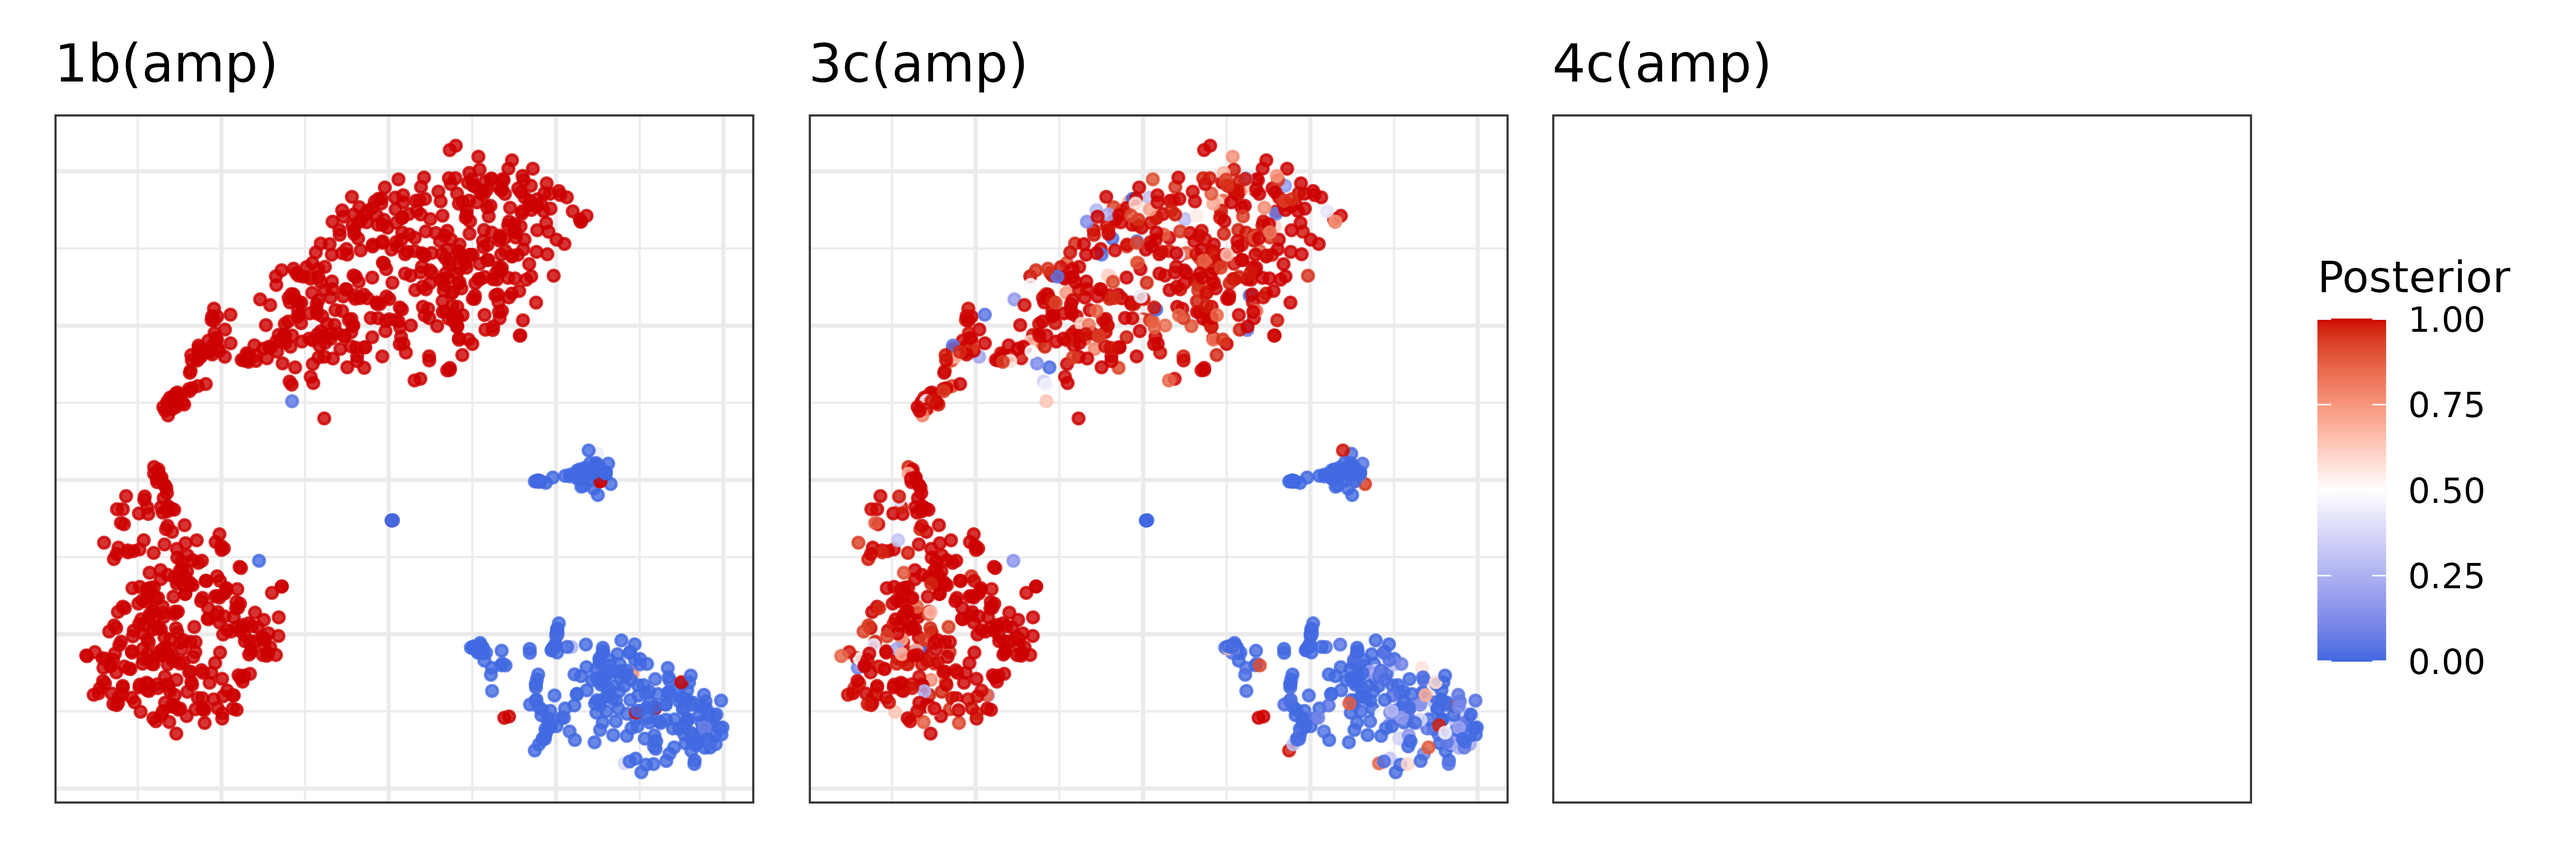
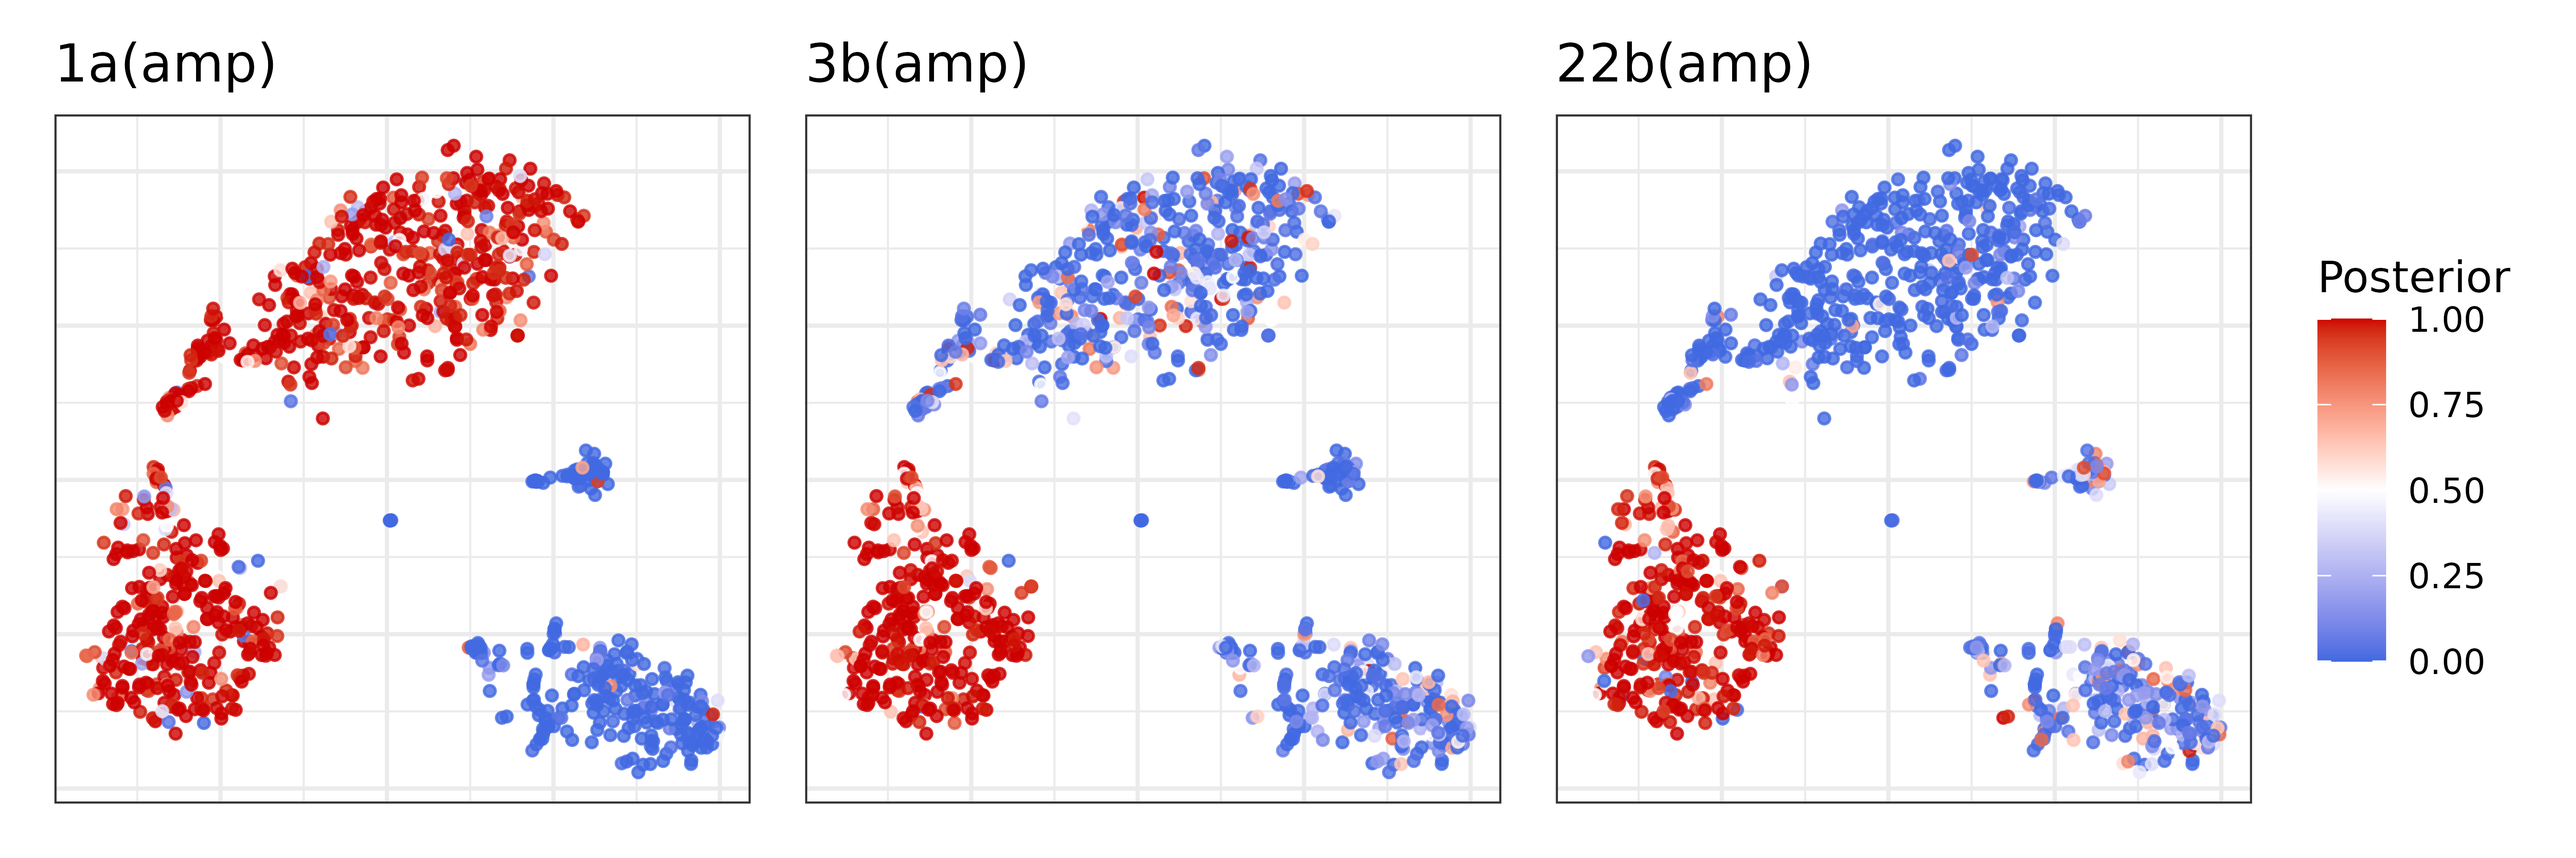
updating articles

diff --git a/docs/articles/results.html b/docs/articles/results.html
@@ -161,7 +161,7 @@
 <p>which contains cell-level information on specific CNV segments (<code>seg</code>), their alteration type (<code>cnv_state</code>), the joint posterior probability of the CNV (<code>p_cnv</code>), the expression-based posterior (<code>p_cnv_x</code>), and the allele-based posterior (<code>p_cnv_y</code>). We can visualize the event-specific posteriors in a expression-based tSNE embedding:</p>
 <div class="sourceCode"><pre class="downlit sourceCode r">
 <code class="sourceCode R"><span class="va">plist</span> <span class="op">=</span> <span class="fu"><a href="https://rdrr.io/r/base/list.html" class="external-link">list</a></span><span class="op">(</span><span class="op">)</span>
-<span class="va">muts</span> <span class="op">=</span> <span class="fu"><a href="https://rdrr.io/r/base/c.html" class="external-link">c</a></span><span class="op">(</span><span class="st">'1b'</span>, <span class="st">'3c'</span>, <span class="st">'4c'</span><span class="op">)</span>
+<span class="va">muts</span> <span class="op">=</span> <span class="fu"><a href="https://rdrr.io/r/base/c.html" class="external-link">c</a></span><span class="op">(</span><span class="st">'1a'</span>, <span class="st">'3b'</span>, <span class="st">'22b'</span><span class="op">)</span>
 <span class="va">cnv_type</span> <span class="op">=</span> <span class="va">nb</span><span class="op">$</span><span class="va">joint_post</span> <span class="op"><a href="https://magrittr.tidyverse.org/reference/pipe.html" class="external-link">%&gt;%</a></span> <span class="fu"><a href="https://dplyr.tidyverse.org/reference/distinct.html" class="external-link">distinct</a></span><span class="op">(</span><span class="va">seg</span>, <span class="va">cnv_state</span><span class="op">)</span> <span class="op"><a href="https://magrittr.tidyverse.org/reference/pipe.html" class="external-link">%&gt;%</a></span> <span class="op">{</span><span class="fu"><a href="https://rdrr.io/r/stats/setNames.html" class="external-link">setNames</a></span><span class="op">(</span><span class="va">.</span><span class="op">$</span><span class="va">cnv_state</span>, <span class="va">.</span><span class="op">$</span><span class="va">seg</span><span class="op">)</span><span class="op">}</span>
 <span class="kw">for</span> <span class="op">(</span><span class="va">mut</span> <span class="kw">in</span> <span class="va">muts</span><span class="op">)</span> <span class="op">{</span>
     
